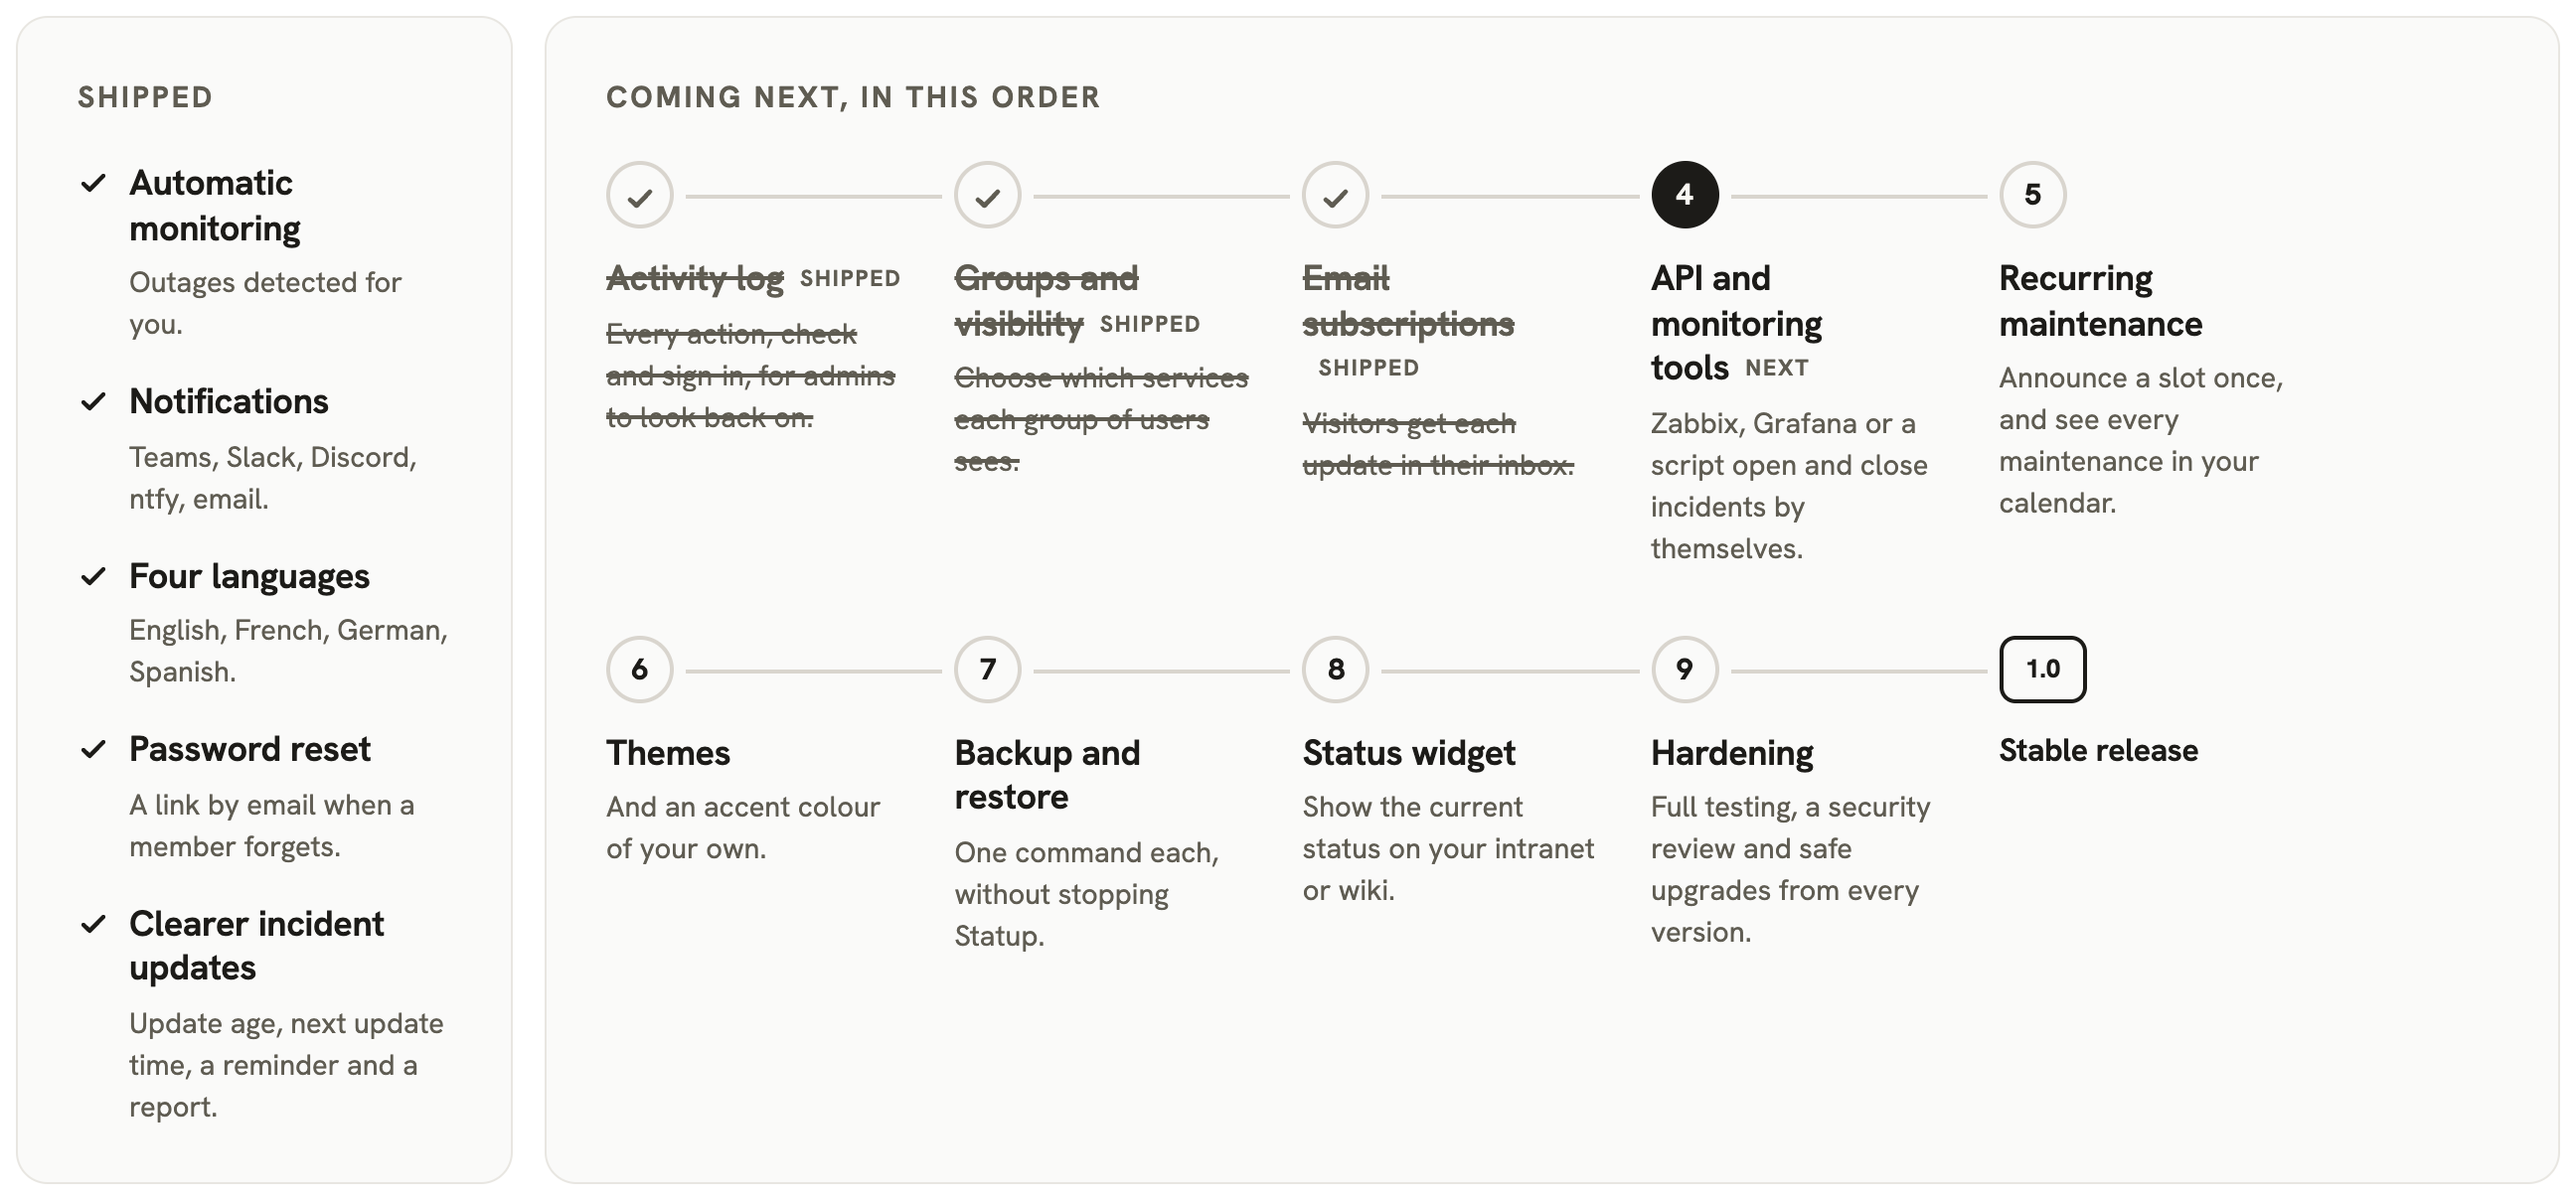
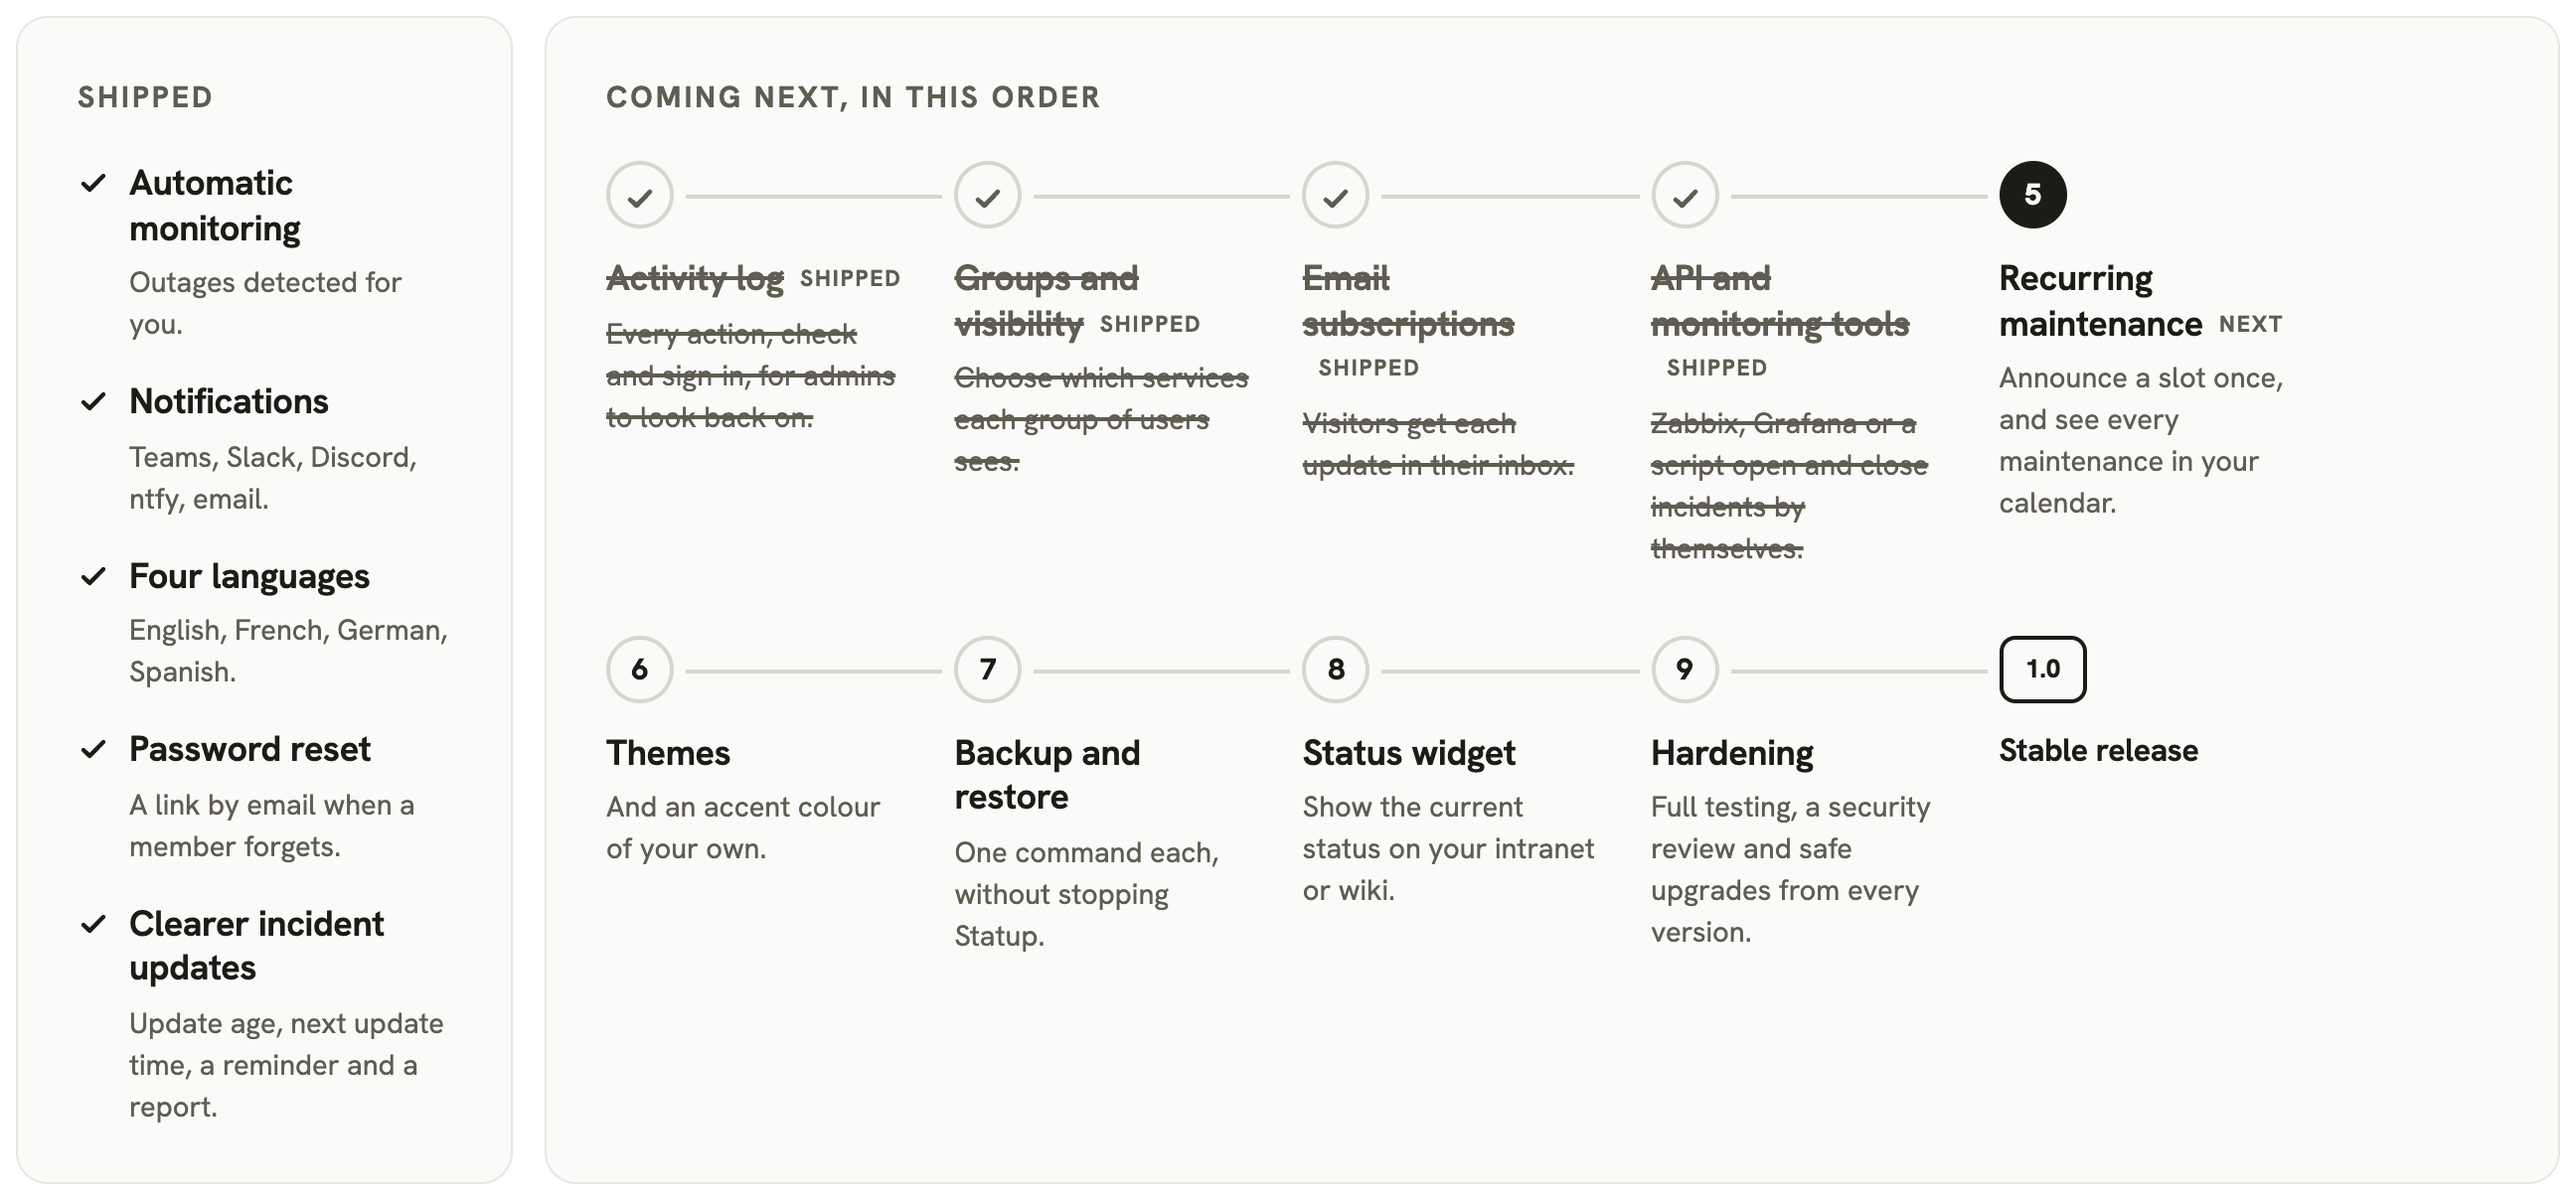
release 0.9.0

diff --git a/README.md b/README.md
@@ -43,7 +43,8 @@ It is a status page you host yourself. Whoever runs a service posts, once, what 
 
 - **The answer first**: a banner says what is wrong, what is affected and since when, above every service and its last 90 days.
 - **Runs on its own**: a service follows the incident that names it, and planned work starts and ends at the times announced.
-- **Notices first**: every minute, Statup checks that a site or a server answers, and shows an outage after three minutes without an answer, or the delay set for that service.
+- **Notices first**: it checks on its own, every minute, that a site or a server answers, or listens to the monitoring you already run; an outage shows after three minutes without an answer, or the delay set for that service.
+- **Works with your monitoring**: Prometheus, Grafana, Zabbix or Uptime Kuma report an outage, and Statup announces it; a script publishes through the HTTP API, and an Uptime Kuma status page imports in one go.
 - **Quick to publish**: dated updates, reusable templates and a short report once an incident is resolved; an outage spotted by the checks is declared in one click.
 - **Tells people where they are**: each incident, maintenance and announcement posted to Microsoft Teams, Slack, Google Chat, Discord or Mattermost, to phones through ntfy, by email, or to any tool through a webhook, in the language of each channel.
 - **Easy to follow**: search and filters, a side panel to read without leaving the list, an Atom feed for feed readers, and an email at each update for those who subscribe.
@@ -91,7 +92,7 @@ Add them from the **Team** page: they open the same address. For HTTPS and a nam
 
 <picture>
   <source media="(prefers-color-scheme: dark)" srcset=".github/assets/roadmap-dark.png">
-  <img src=".github/assets/roadmap.png" alt="Roadmap: shipped are automatic monitoring, notifications, four languages, password reset and clearer incident updates; step 1, the activity log, shipped in 0.6.0; step 2, groups and visibility, shipped in 0.7.0; step 3, email subscriptions, shipped in 0.8.0; coming next, in order, steps 4 to 9 listed below, then the stable 1.0 release" width="1296">
+  <img src=".github/assets/roadmap.png" alt="Roadmap: shipped are automatic monitoring, notifications, four languages, password reset and clearer incident updates; step 1, the activity log, shipped in 0.6.0; step 2, groups and visibility, shipped in 0.7.0; step 3, email subscriptions, shipped in 0.8.0; step 4, API and monitoring tools, shipped in 0.9.0; coming next, in order, steps 5 to 9 listed below, then the stable 1.0 release" width="1296">
 </picture>
 
 Planned, in this order, without dates:
@@ -99,7 +100,7 @@ Planned, in this order, without dates:
 1. ~~**Activity log**: every action, check and sign-in, for administrators to look back on.~~ Shipped in 0.6.0.
 2. ~~**Groups and visibility**: choose which services and events each group of users sees.~~ Shipped in 0.7.0, with folders of services.
 3. ~~**Email subscriptions**: visitors get each update in their inbox.~~ Shipped in 0.8.0.
-4. **API and monitoring tools**: Zabbix, Grafana or a script open and close incidents by themselves.
+4. ~~**API and monitoring tools**: Zabbix, Grafana or a script open and close incidents by themselves.~~ Shipped in 0.9.0, with an import from Uptime Kuma.
 5. **Recurring maintenance**: announce a slot once, and see every maintenance in your calendar.
 6. **Themes** and an accent colour.
 7. **Backup and restore**, one command each, without stopping Statup.

diff --git a/.github/CHANGELOG.md b/.github/CHANGELOG.md
@@ -2,7 +2,7 @@
 
 All notable changes to Statup are listed here. The project is pre-v1: until 1.0, a minor version may change the interface or the database, and the README asks you to back up before upgrading.
 
-## Unreleased
+## 0.9.0, 2026-10-27
 
 - Clearer wording in Settings, the Journal, Alerts and the profile, in every language: one word for each thing (**SMTP server**, **Page URL**, **Webhook URL**, **Send a test**), Journal **entries** and a **Capture level**, and the reasons a message failed said plainly.
 - Clearer wording on the dashboard, the events, the subscription pages and emails, and the error pages, in every language: **updates** rather than news, **Delete** where something is deleted, and shorter confirmations.
